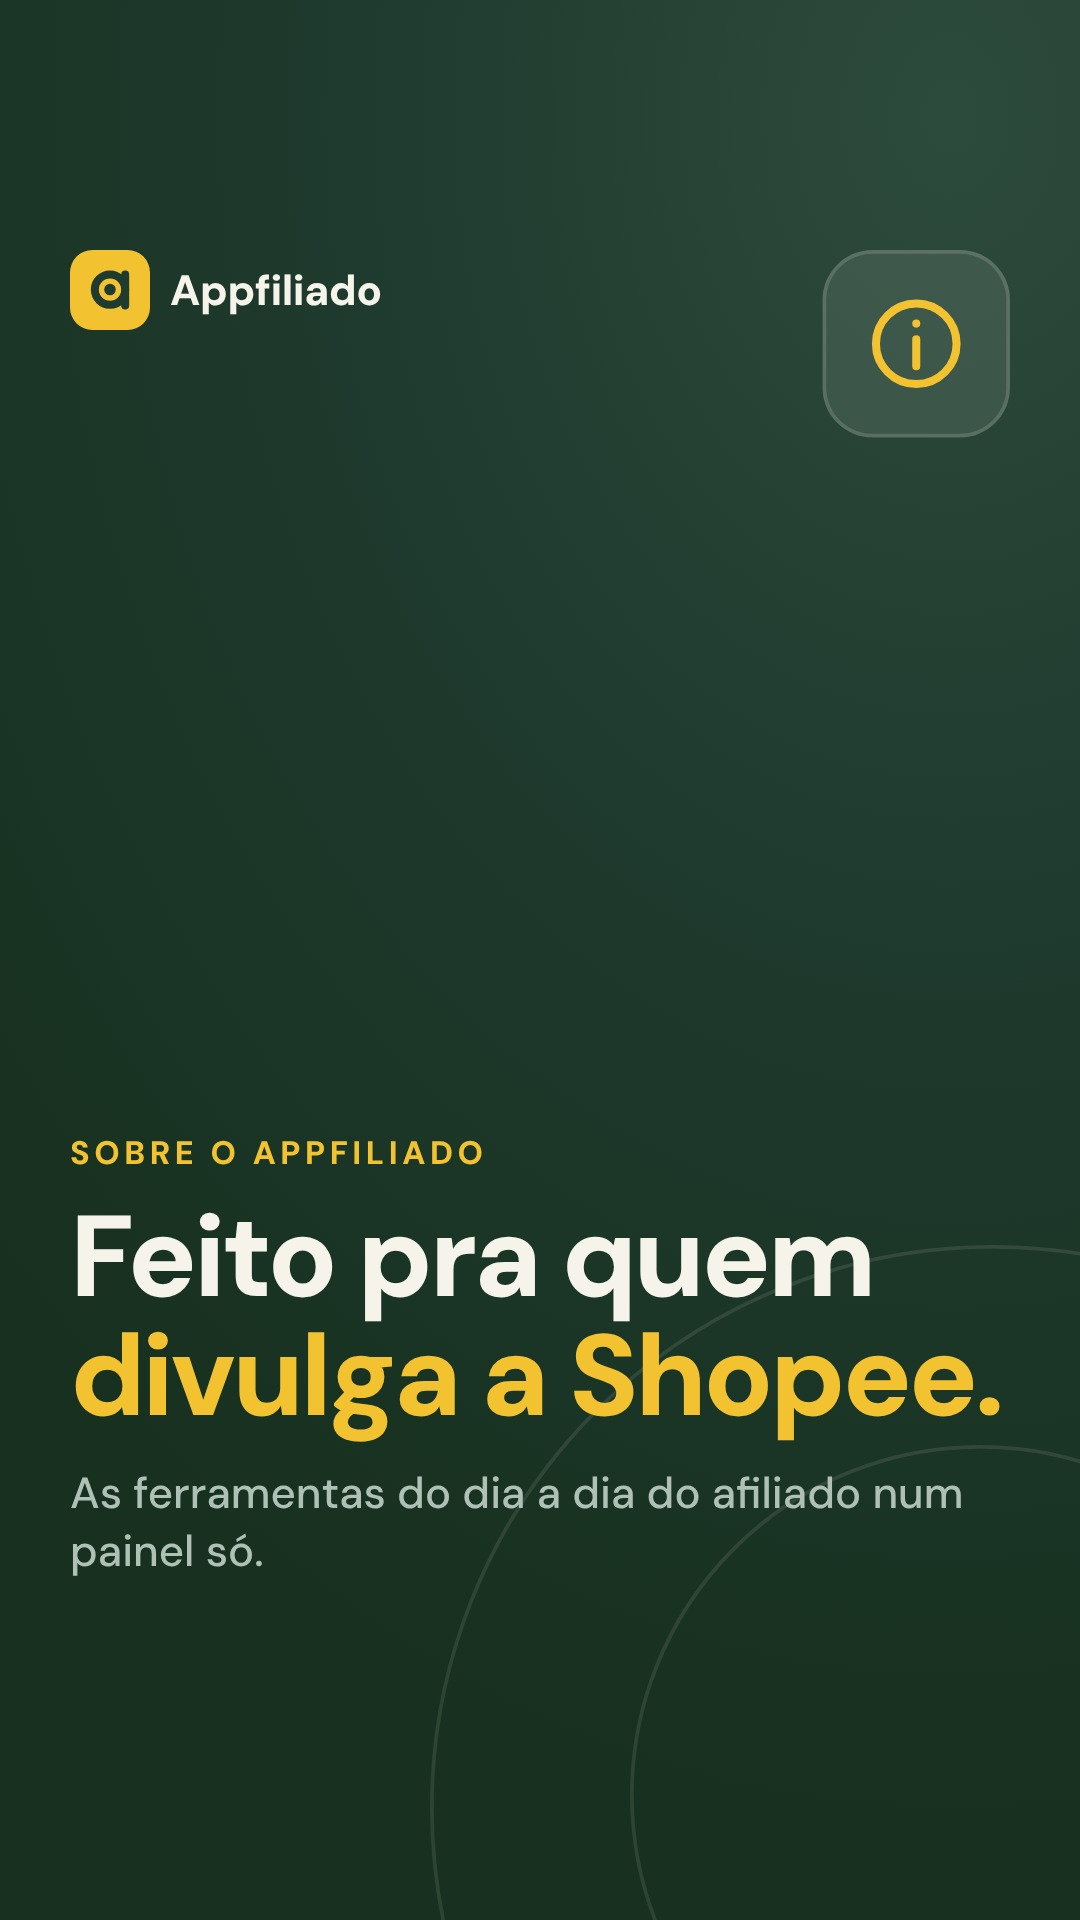
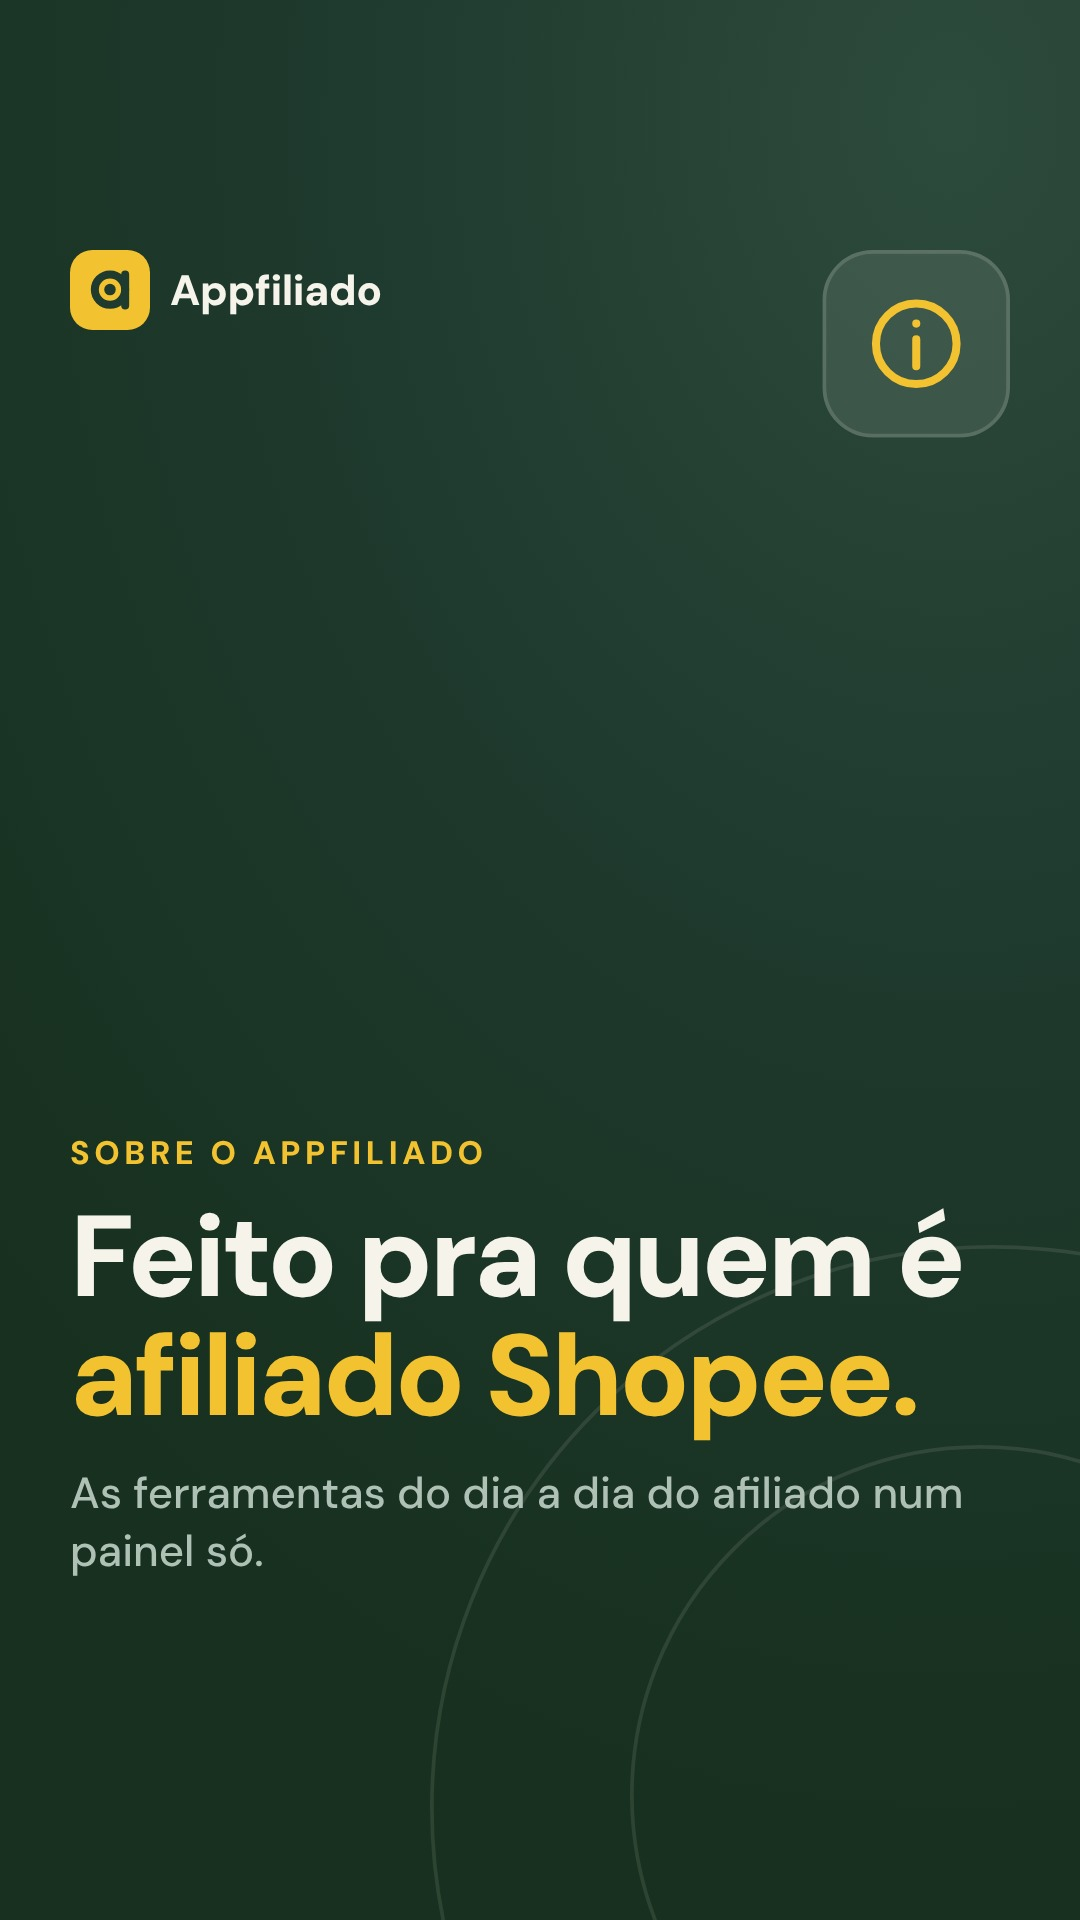
Instagram: "afiliado Shopee" no lugar de "divulgar a Shopee"
Ajusta a capa do destaque Sobre e a legenda da apresentação, e registra a
regra no VOZ.md.

Claude-Session: https://claude.ai/code/session_01FQ1xHHHeBcnmfm87PhUMDS

Changed region(s): [[0.4583, 0.625, 0.9167, 0.75], [0.0611, 0.6875, 0.4278, 0.75]]

diff --git a/marketing/appfiliado/instagram/gerar_instagram.py b/marketing/appfiliado/instagram/gerar_instagram.py
@@ -377,7 +377,7 @@ FEED = {
 
 DESTAQUES = {
     "sobre": [
-        capa("Sobre o Appfiliado", "Feito pra quem <em>divulga a Shopee.</em>",
+        capa("Sobre o Appfiliado", "Feito pra quem é <em>afiliado Shopee.</em>",
              "As ferramentas do dia a dia do afiliado num painel só.", icone="sobre"),
         lista("Sobre o Appfiliado", "Escolha os seus módulos", [
             ("Bot de WhatsApp", "Ofertas no automático nos seus grupos."),

diff --git a/VOZ.md b/VOZ.md
@@ -49,6 +49,9 @@ o dono da marca aponta o que soa diferente do jeito dele de falar.
 - **Sem vírgula antes do complemento em título.** "Ofertas automáticas da
   Shopee com o seu link", não "da Shopee, com o seu link". Vale para
   títulos e chamadas em que o "com…" / "no…" completa a frase.
+- **Appfiliado: o público é "afiliado Shopee", não quem "divulga a Shopee".**
+  Use "pra afiliados Shopee", "pra quem é afiliado Shopee", "ser afiliado
+  Shopee". Evite "divulgar a Shopee" e "feito pra quem divulga a Shopee".
 
 ## Onde essas regras já foram aplicadas
 

diff --git a/marketing/appfiliado/instagram/legendas.md b/marketing/appfiliado/instagram/legendas.md
@@ -69,7 +69,7 @@ Hashtags base (use 5 a 8 por post, não precisa de todas):
 ### 1. Apresentação
 
 ```
-Tudo que você usa pra divulgar a Shopee num painel só 🧡
+Tudo que você usa como afiliado Shopee num painel só 🧡
 
 O Appfiliado nasceu pra tirar o trabalho repetitivo da rotina do afiliado:
 
